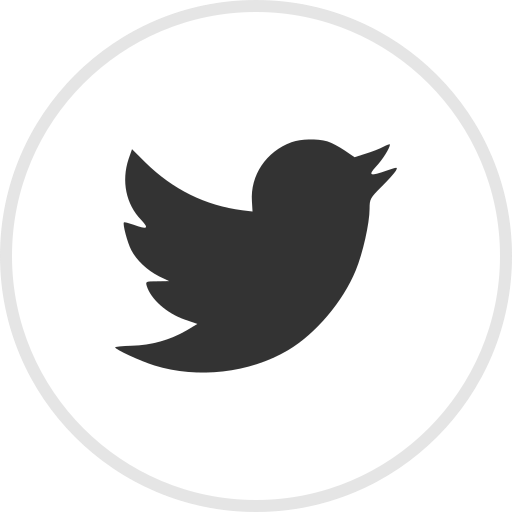
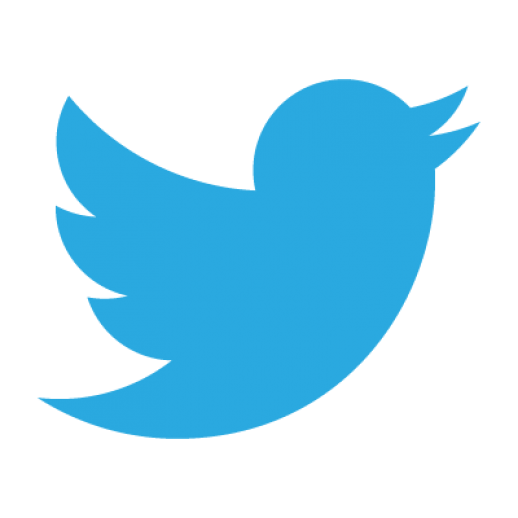
footer and about page

diff --git a/client/src/components/shared/About.js b/client/src/components/shared/About.js
@@ -3,8 +3,14 @@ import Card from "../../providers/Card";
 import githubimg from "./Images/githubimg.png"
 import linkedinimg from "./Images/Linkedin.png"
 import facebook from "./Images/facebook.png"
-import twitch from "./Images/twitch.png"
-import youtube from "./Images/youtube.png"
+import twitter from "./Images/twitter.png"
+import behance from "./Images/Behance.png"
+import insta from "./Images/instagram.png"
+import google from "./Images/google.png"
+
+
+
+
 
 
 import "./AboutStyle.css"
@@ -34,7 +40,7 @@ const About = () => {
                  }}src={githubimg} width={300}/>)}
           </Nav.Link>
 
-            {/* <Nav.Link href=" ">
+            <Nav.Link href=" ">
             {linkedinimg && (
               <img style={{
                   objectFit: "cover",
@@ -51,9 +57,54 @@ const About = () => {
                   borderRadius: "50%",
                   width: "40px",
                   height: "40px",
-                 }}src={facebook} width={300}/>)}
-          </Nav.Link> */}
+                 }}src={facebook} width={50}/>)}
+          </Nav.Link>
+
+          <Nav.Link href=" ">
+            {twitter && (
+              <img style={{
+                  objectFit: "cover",
+                  borderRadius: "50%",
+                  width: "40px",
+                  height: "40px",
+                 }}src={twitter} width={300}/>)}
+          </Nav.Link>
+
+          <Nav.Link href=" ">
+            {behance && (
+              <img style={{
+                  objectFit: "cover",
+                  borderRadius: "50%",
+                  width: "40px",
+                  height: "40px",
+                 }}src={behance} width={300}/>)}
+          </Nav.Link>
+
+          <Nav.Link href=" ">
+            {insta && (
+              <img style={{
+                  objectFit: "cover",
+                  borderRadius: "50%",
+                  width: "40px",
+                  height: "40px",
+                 }}src={insta} width={300}/>)}
+          </Nav.Link>
+
+          <Nav.Link href=" ">
+            {google && (
+              <img style={{
+                  objectFit: "cover",
+                  borderRadius: "50%",
+                  width: "40px",
+                  height: "40px",
+                 }}src={google} width={300}/>)}
+          </Nav.Link>
           </div>
+
+
+
+
+
             <br/>
             <Badge className="container" pill bg="badge rounded-pill bg-primary">Joe Jorgensen</Badge>
            
@@ -68,7 +119,7 @@ const About = () => {
                  }}src={githubimg} width={300}/>)}
           </Nav.Link>
 
-            {/* <Nav.Link href=" ">
+            <Nav.Link href=" ">
             {linkedinimg && (
               <img style={{
                   objectFit: "cover",
@@ -86,7 +137,47 @@ const About = () => {
                   width: "40px",
                   height: "40px",
                  }}src={facebook} width={300}/>)}
-          </Nav.Link> */}
+          </Nav.Link>
+
+          <Nav.Link href=" ">
+            {twitter && (
+              <img style={{
+                  objectFit: "cover",
+                  borderRadius: "50%",
+                  width: "40px",
+                  height: "40px",
+                 }}src={twitter} width={300}/>)}
+          </Nav.Link>
+
+          <Nav.Link href=" ">
+            {behance && (
+              <img style={{
+                  objectFit: "cover",
+                  borderRadius: "50%",
+                  width: "40px",
+                  height: "40px",
+                 }}src={behance} width={300}/>)}
+          </Nav.Link>
+
+          <Nav.Link href=" ">
+            {insta && (
+              <img style={{
+                  objectFit: "cover",
+                  borderRadius: "50%",
+                  width: "40px",
+                  height: "40px",
+                 }}src={insta} width={300}/>)}
+          </Nav.Link>
+
+          <Nav.Link href=" ">
+            {google && (
+              <img style={{
+                  objectFit: "cover",
+                  borderRadius: "50%",
+                  width: "40px",
+                  height: "40px",
+                 }}src={google} width={300}/>)}
+          </Nav.Link>
           </div>
             <br/>
             <Badge className="container" pill bg="badge rounded-pill bg-primary">Steven Crass</Badge>
@@ -102,7 +193,7 @@ const About = () => {
                  }}src={githubimg} width={300}/>)}
           </Nav.Link>
 
-            {/* <Nav.Link href=" ">
+            <Nav.Link href="https://www.linkedin.com/in/stevecrass/">
             {linkedinimg && (
               <img style={{
                   objectFit: "cover",
@@ -120,7 +211,47 @@ const About = () => {
                   width: "40px",
                   height: "40px",
                  }}src={facebook} width={300}/>)}
-          </Nav.Link> */}
+          </Nav.Link>
+
+          <Nav.Link href=" ">
+            {twitter && (
+              <img style={{
+                  objectFit: "cover",
+                  borderRadius: "50%",
+                  width: "40px",
+                  height: "40px",
+                 }}src={twitter} width={300}/>)}
+          </Nav.Link>
+
+          <Nav.Link href=" ">
+            {behance && (
+              <img style={{
+                  objectFit: "cover",
+                  borderRadius: "50%",
+                  width: "40px",
+                  height: "40px",
+                 }}src={behance} width={300}/>)}
+          </Nav.Link>
+
+          <Nav.Link href=" ">
+            {insta && (
+              <img style={{
+                  objectFit: "cover",
+                  borderRadius: "50%",
+                  width: "40px",
+                  height: "40px",
+                 }}src={insta} width={300}/>)}
+          </Nav.Link>
+
+          <Nav.Link href=" ">
+            {google && (
+              <img style={{
+                  objectFit: "cover",
+                  borderRadius: "50%",
+                  width: "40px",
+                  height: "40px",
+                 }}src={google} width={300}/>)}
+          </Nav.Link>
           </div>
             <br/>
 
@@ -149,25 +280,57 @@ const About = () => {
                  }}src={linkedinimg} width={300}/>)}
           </Nav.Link>
 
-          <Nav.Link href="https://www.youtube.com/channel/UCqr--mhPzgywG7FwIadN2zQ">
-            {youtube && (
+          <Nav.Link href=" ">
+            {facebook && (
               <img style={{
                   objectFit: "cover",
                   borderRadius: "50%",
                   width: "40px",
                   height: "40px",
-                 }}src={youtube} width={300}/>)}
+                 }}src={facebook} width={300}/>)}
           </Nav.Link>
 
-          <Nav.Link href="https://www.twitch.tv/mr_kilgore_gaming">
-            {twitch && (
+          <Nav.Link href=" ">
+            {twitter && (
               <img style={{
                   objectFit: "cover",
                   borderRadius: "50%",
                   width: "40px",
                   height: "40px",
-                 }}src={twitch} width={300}/>)}
+                 }}src={twitter} width={300}/>)}
           </Nav.Link>
+
+          <Nav.Link href=" ">
+            {behance && (
+              <img style={{
+                  objectFit: "cover",
+                  borderRadius: "50%",
+                  width: "40px",
+                  height: "40px",
+                 }}src={behance} width={300}/>)}
+          </Nav.Link>
+
+          <Nav.Link href=" ">
+            {insta && (
+              <img style={{
+                  objectFit: "cover",
+                  borderRadius: "50%",
+                  width: "40px",
+                  height: "40px",
+                 }}src={insta} width={300}/>)}
+          </Nav.Link>
+
+          <Nav.Link href=" ">
+            {google && (
+              <img style={{
+                  objectFit: "cover",
+                  borderRadius: "50%",
+                  width: "40px",
+                  height: "40px",
+                 }}src={google} width={300}/>)}
+          </Nav.Link>
+
+
           </div>
             <br/>
 

diff --git a/client/src/components/shared/Footer.js b/client/src/components/shared/Footer.js
@@ -1,8 +1,9 @@
 import React from "react";
-import facebook from "./Images/FacebookV2.png";
-import instagram from "./Images/instagram.png";
-import twitter from "./Images/Twitter.png";
-import link from "./Images/link.png";
+import facebook from "./Images/BlueFacebook.png"
+import twitter from "./Images/BlueTwitter.png"
+import behance from "./Images/BlueBehance.png"
+import insta from "./Images/BlueInstagram.png"
+import google from "./Images/BlueGoogle+.png"
 
 const Footer = () => {
   return (
@@ -11,16 +12,19 @@ const Footer = () => {
       <p>© 2022 DevPoint Labs LLC All rights reserved</p>
       <div className="footerPngAlignment">
         <a href="https://www.Facebook.com">
-          <img className="footerPNG" src={facebook}></img>
+          <img style={{justifyContent: "space-between", width: "20px", height: "20px"}} className="footerPNG" src={facebook}></img>
         </a>
         <a href="https://www.Instagram.com">
-          <img className="footerPNG" src={instagram}></img>
+          <img style={{width: "20px", height: "20px"}} className="footerPNG" src={insta}></img>
         </a>
         <a href="https://www.Twitter.com">
-          <img className="footerPNG" src={twitter}></img>
+          <img style={{width: "20px", height: "20px"}} className="footerPNG" src={twitter}></img>
         </a>
         <a href="https://www.Linkedin.com">
-          <img className="footerPNG" src={link}></img>
+          <img style={{width: "25px", height: "20px"}} className="footerPNG" src={google}></img>
+        </a>
+        <a href="https://www.behance.net">
+          <img style={{width: "25px", height: "20px"}} className="footerPNG" src={behance}></img>
         </a>
       </div>
     </div>
